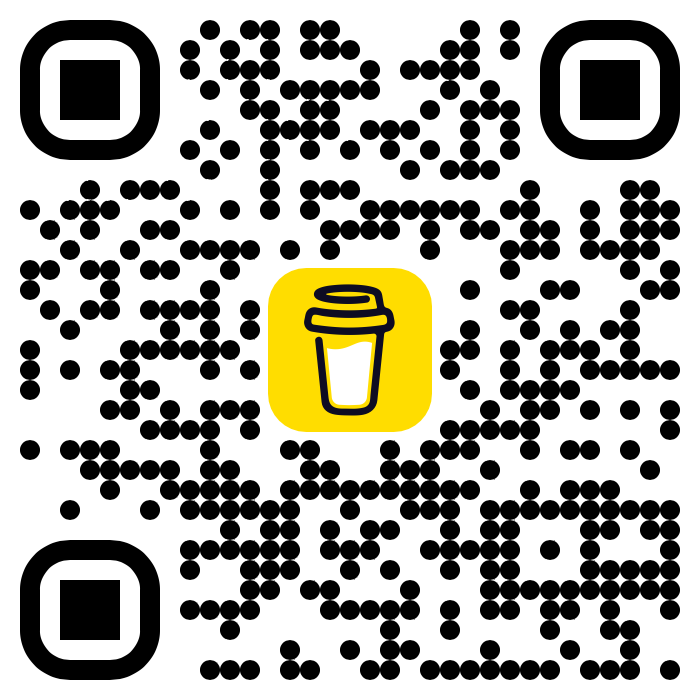
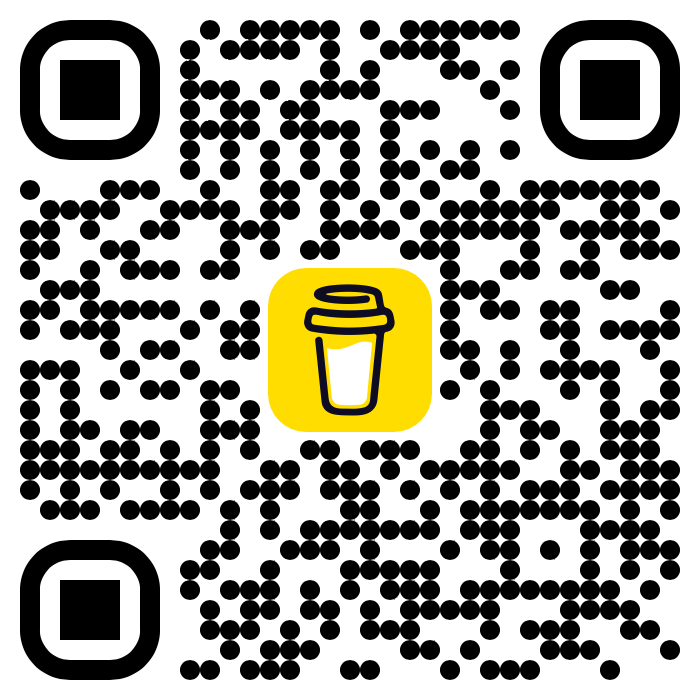
update buy-me-a-coffee link/QR to buymeacoffee.com/glenrobertson

diff --git a/now-playing/index.html b/now-playing/index.html
@@ -218,10 +218,10 @@
   <h2>Buy me a coffee</h2>
   <p>If this project saved you some time or made your desk a little nicer, you can support further work here:</p>
   <div class="bmc">
-    <a href="https://buymeacoffee.com/yB8tmcbAja"><img src="bmc-qr.png" alt="Buy Me a Coffee QR code"></a>
+    <a href="https://buymeacoffee.com/glenrobertson"><img src="bmc-qr.png" alt="Buy Me a Coffee QR code"></a>
     <div class="bmc-text">
       <p>Scan the QR code, or visit:</p>
-      <p><a href="https://buymeacoffee.com/yB8tmcbAja">buymeacoffee.com/yB8tmcbAja</a></p>
+      <p><a href="https://buymeacoffee.com/glenrobertson">buymeacoffee.com/glenrobertson</a></p>
     </div>
   </div>
 
